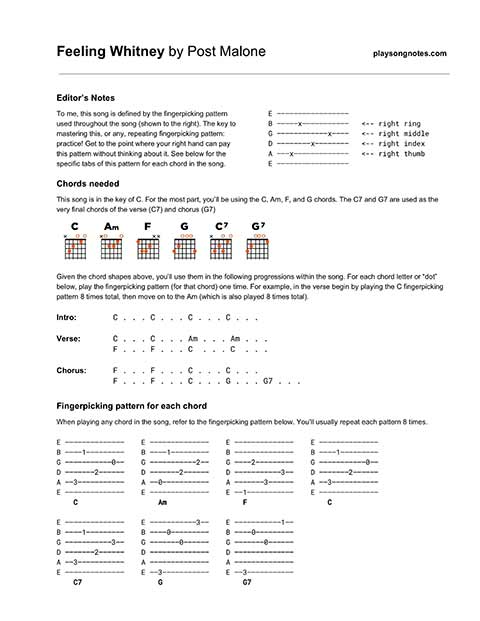
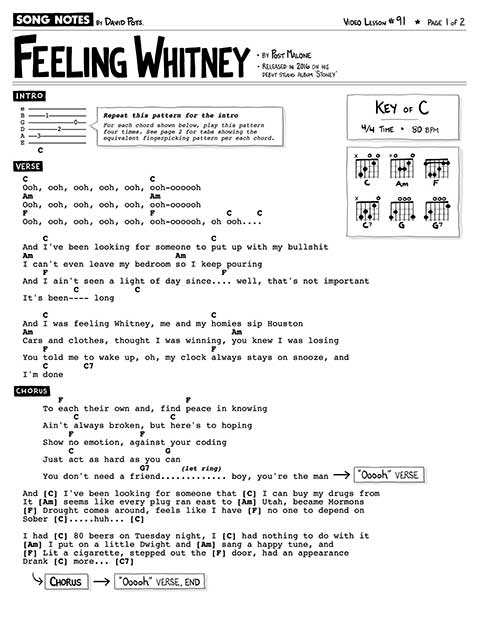
Adds feeling whitney mn url

Changed region(s): [[0.0312, 0.0, 0.9688, 0.9485]]

diff --git a/_lessons/91 [Post Malone] Feeling Whitney.md b/_lessons/91 [Post Malone] Feeling Whitney.md
@@ -12,10 +12,9 @@ slug: "91"
 redirect_from:
   - /songs/post-malone-feeling-whitney/
 #pdf_version: v1
-pdf_version: copyright
+pdf_version: musicnotes
 pdf_numpages: 2
-patreon_lesson_available: true
-patreon_lesson_url: https://www.patreon.com/posts/21721986
+musicnotes_url: https://www.musicnotes.com/l/gtvMF
 ---
 
 ## Video lesson
@@ -26,142 +25,4 @@ patreon_lesson_url: https://www.patreon.com/posts/21721986
 
 ## Editor's notes
 
-In this lesson I'll show you how to play "Feeling Whitney" by Post Malone. This song uses only a handful of conventional chords, but the fingerpicking pattern has been the fun part about learning it for me. I'll show you tabs for fingerpicking each of the chords needed, and explain how to practice it all & put it all together. I hope you enjoy!
-
-## Chords needed
-
-First off, you'll want to know these basic chord positions for this song. Even though you'll be fingerpicking (instead of strumming), I strongly advise you get used to putting your left hand into these full chord positions -- even for fingerpicking.
-
-    E –––0––––0––––1––––3––––
-    B –––1––––1––––1––––0––––
-    G –––0––––2––––2––––0––––
-    D –––2––––2––––3––––0––––
-    A –––3––––0––––3––––2––––
-    E –––––––––––––1––––3––––
-         C    Am   F    G   
-
-There's also these slight modifications of the chords above, which are used in a few places.
-
-    E –––0–––––1–––––
-    B –––1–––––0–––––
-    G –––3–––––0–––––
-    D –––2–––––0–––––
-    A –––3–––––2–––––
-    E –––––––––3–––––
-         C7    G7
-
-## Fingerpicking patterns
-
-Once you know the chords, it's time to learn the basic fingerpicking patterns. The good news: there is a ton of consistency here. For the C, Am, F, and C7 you have the same general pattern -- lowest note, highest note, 2nd lowest note, 2nd highest note. While the strings played per each chord are different, it's not terribly difficult to memorize. Print this out (or write it down) if you are having trouble memorizing things... the hard part will be getting your right hand's fingers to play along with the instructions your brain will be giving them.
-
-Each pattern below needs to be repeated (usually 8 times).
-
-    E –––––––––––––––––  
-    B –––––1–––––––––––   <-- right ring
-    G ––––––––––––0––––   <-- right middle
-    D ––––––––2––––––––   <-- right index                 
-    A –––3–––––––––––––   <-- right thumb                
-    E –––––––––––––––––   
-         C
-
-    E –––––––––––––––––   
-    B –––––1–––––––––––   <-- right ring
-    G ––––––––––––2––––   <-- right middle
-    D ––––––––2––––––––   <-- right index                
-    A –––0–––––––––––––   <-- right thumb                
-    E –––––––––––––––––   
-         Am
-
-    E –––––––––––––––––   
-    B –––––––––––––––––   
-    G –––––2–––––––––––   <-- right ring
-    D ––––––––––––3––––   <-- right middle                
-    A ––––––––3––––––––   <-- right index                
-    E –––1–––––––––––––   <-- right thumb
-         F
-
-    E ––––––––––––3––––   <-- right ring
-    B –––––0–––––––––––   <-- right middle
-    G ––––––––0––––––––   <-- right index
-    D –––––––––––––––––                   
-    A –––––––––––––––––                   
-    E –––3–––––––––––––   <-- right thumb
-         G
-
-    E –––––––––––––––––  
-    B –––––1–––––––––––   <-- right ring
-    G ––––––––––––3––––   <-- right middle
-    D ––––––––2––––––––   <-- right index                 
-    A –––3–––––––––––––   <-- right thumb                
-    E –––––––––––––––––   
-         C7
-
-    E ––––––––––––1––––   <-- right ring
-    B –––––0–––––––––––   <-- right middle
-    G ––––––––0––––––––   <-- right index
-    D –––––––––––––––––                   
-    A –––––––––––––––––                   
-    E –––3–––––––––––––   <-- right thumb
-         G7
-
-## Chord progressions
-
-For each chord name or dot below, play the fingerpicking pattern per that chord one time. e.g., for the "C" in the verse play the pattern 8 times total. And so on and so forth.
-
-### Verse:
-
-    C . . . C . . . Am . . . Am . . .
-    F . . . F . . . C  . . . C  . . .
-
-### Chorus:
-
-    F . . . F . . . C . . . C . . .
-    F . . . F . . . C . . . G . . . G7 . . .
-
-## Lyrics w/ chords
-
-    VERSE
-
-        C
-        Ooh, ooh, ooh, ooh, ooh, ooh-ooh
-        Am
-        Ooh, ooh, ooh, ooh, ooh, ooh-ooh
-        F                                 C
-        Ooh, ooh, ooh, ooh, ooh, ooh-ooh, ooh
-
-            C
-        And I've been looking for someone to put up with my bullshit
-        Am
-        I can't even leave my bedroom so I keep pouring
-            F
-        And I ain't seen a light of day since, well, that's not important
-                  C
-        It's been---- long
-
-            C
-        And I was feeling Whitney, me and my homies sip Houston
-        Am
-        Cars and clothes, thought I was winning, you knew I was losing
-            F
-        You told me to wake up, oh, my clock always stays on snooze, and
-            C       C7
-        I'm done
-
-    CHORUS
-
-           F
-        To each their own and, find peace in knowing
-              C
-        Ain't always broken, but here's to hoping
-             F
-        Show no emotion, against your coding
-             C                  G
-        Just act as hard as you can
-                                G7  (stop)
-        You don't need a friend........... boy, you're the man
-
-    (repeat these progressions for remaining verse & choruses)
-
-## Good luck!
-
-Let me know if you have questions. I hope this was helpful.
+In this lesson I'll show you how to play "Feeling Whitney" by Post Malone. This song uses only a handful of chords, but the fingerpicking pattern has been the fun part about learning it for me. I'll show you tabs for fingerpicking each of the chords needed, and explain how to practice it all & put it all together. I hope you enjoy!

diff --git a/backlog.md b/backlog.md
@@ -18,6 +18,7 @@ permalink: /backlog/
 
 Here's the songs I've most recently re-listed for purchase at Musicnotes.com. Each arrangement is officially licensed & legal, and also uses my latest sheet music formatting.
 
+- Apr 19 - [Feeling Whitney](https://playsongnotes.com/lessons/91/)
 - Apr 16 - [Sweet Child O' Mine](https://playsongnotes.com/lessons/156/)
 - Apr 14 - [Danny's Song](https://playsongnotes.com/lessons/95/)
 - Apr 12 - [Highwayman](https://playsongnotes.com/lessons/55/)
@@ -60,13 +61,12 @@ Here's the songs I've most recently re-listed for purchase at Musicnotes.com. Ea
     American Girl               XXXXXXXX
     California Dreaming         XXXXXXXXX
     Creep                       XXXXXXXXXX
-    Feeling Whitney             XXXXXXXXXX
     Game of Thrones (theme)     XXXXXXXXXX
     Guantanamara                XXXXXXX
     Let Him Roll                XXXXXXXX
     Like a Rolling Stone        XXXXXXXXXXXX
     Maybe It's Time •           XXXXXXX
-    My Fav. Picture of You      XXXXXXX
+    My Fav. Picture of You      XXXXXXXX
     My Old Kentucky Home        XXXXXXXX
     Sedona                      XXXXXXX
     Total Eclipse of the Heart  XXXXXXX
@@ -75,7 +75,7 @@ Here's the songs I've most recently re-listed for purchase at Musicnotes.com. Ea
 <h3>3-6 requests:</h3>
 
     All Apologies               XXX
-    LA Freeway                  XXXXX
+    LA Freeway                  XXXXXX
     Let It Go                   XXX
     Light On •                  XXX
     Lookin' Out My Backdoor     XXXX
